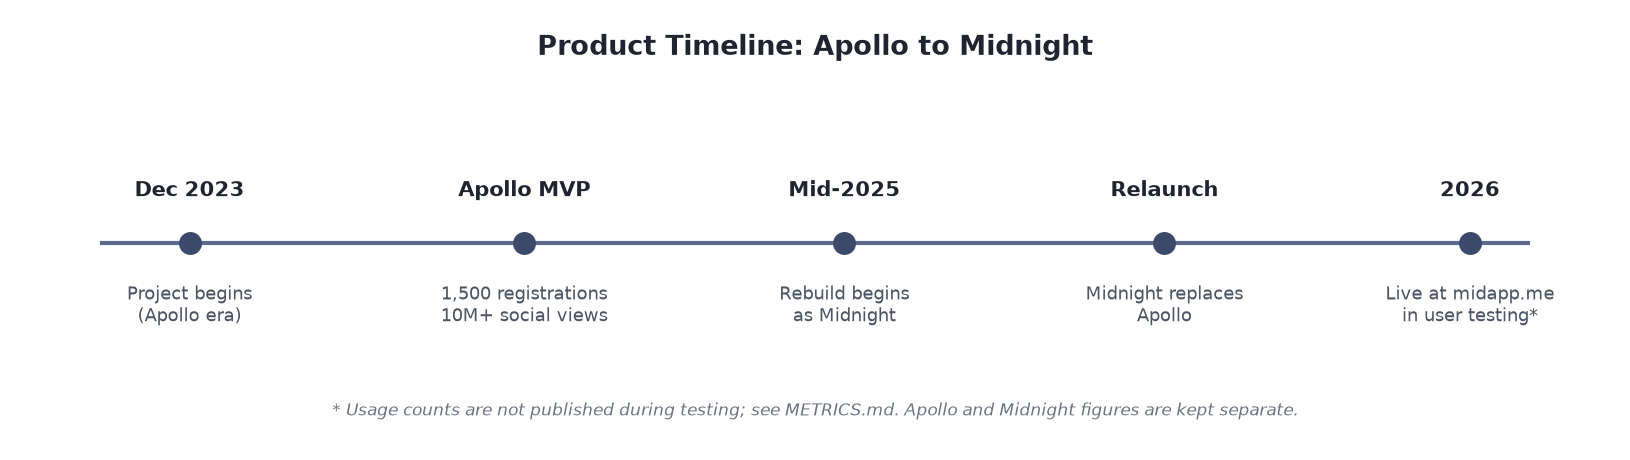
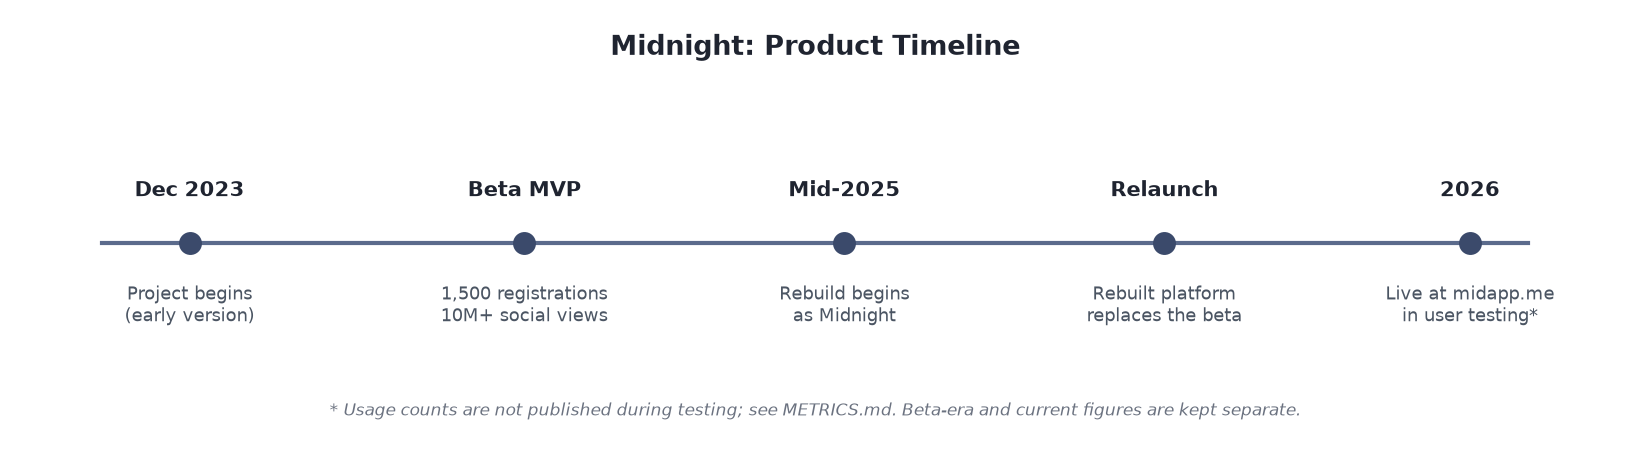
Refer to the earlier platform version as the beta throughout; regenerate timeline

diff --git a/CASE_STUDY.md b/CASE_STUDY.md
@@ -1,17 +1,17 @@
 # Midnight: Full Case Study
 
 > Documentation-only. No production source code, user data, or secrets. Product-analytics figures
-> are founder-reported and aggregated. Historical **the beta** figures and current **Midnight**
+> are founder-reported and aggregated. Beta-era figures and current-platform
 > figures are kept separate, see [METRICS.md](METRICS.md).
 
 ## 1. Executive summary
 Midnight is an AI-powered student success platform ([www.midapp.me](https://www.midapp.me)) that
 helps students turn scattered academic inputs into finished work through AI-assisted grading,
 quiz generation, flashcards, tutoring, and Canvas LMS integration. It is a rebuild and relaunch of
-an earlier product, **the beta**. Working in close coordination with a co-founder, I led product
+the platform's own earlier beta. Working in close coordination with a co-founder, I led product
 planning, user research, development priorities, testing, and marketing strategy, and served as the
 lead engineer and top code contributor (**1,684 of 3,607 commits, ~47%**, verified from the
-private repository). This case study documents the product problem, the the beta→Midnight transition,
+private repository). This case study documents the product problem, the beta-to-rebuild transition,
 my responsibilities, the technical approach, and honest results and limitations, without exposing
 proprietary code.
 
@@ -22,14 +22,14 @@ The result is friction, dead ends, and time lost to tool-management instead of l
 Midnight targets that gap with a single, student-first workspace where AI helps *create* and
 *organize* academic work, and where long-running tasks keep progressing in the background.
 
-## 3. The original the beta product
-the beta was the earlier version of this idea, an AI-assisted academic product for students. It
+## 3. The original beta
+Midnight began as an earlier beta version, an AI-assisted academic product for students. It
 validated demand and generated meaningful early traction: **1,500 registrations** and
 **more than 10 million social-media views**, built with a team of **~25 contributors** (all
 founder-reported; see [METRICS.md](METRICS.md)).
 
 ## 4. Problems discovered during the beta
-The the beta beta surfaced common early-product issues: unclear product focus, features that didn't
+The beta surfaced common early-product issues: unclear product focus, features that didn't
 map cleanly to how students actually work, and operational cost pressure from AI usage. These
 lessons directly shaped the decision to rebuild with a tighter product direction.
 
@@ -63,20 +63,20 @@ commits); the product/research/testing/marketing leadership is self-reported.
 | Product requirements / development priorities | **Led** | Self-reported |
 | Testing | **Led** | Self-reported (repo also has Playwright/Vitest suites) |
 | Marketing strategy | **Led** | Self-reported |
-| Contributor coordination | **Led / Co-led** | Coordinated ~25 contributors (the beta stage), with co-founder |
+| Contributor coordination | **Led / Co-led** | Coordinated ~25 contributors (beta stage), with co-founder |
 | AI infrastructure (multi-provider routing, background jobs) | **Contributed / Co-led** | Stack verified in repo |
 | Analytics | **Contributed** | PostHog present in stack |
 | Launch planning | **Co-led** (with co-founder) | Self-reported |
 
 > Work was done in **close coordination with a co-founder**. This case study does not claim I
 > personally built every part of the platform: Midnight is a team effort (10+ contributors in the
-> current repo; ~25 during the the beta stage). My largest independently verifiable contribution is
+> current repo; ~25 during the beta stage). My largest independently verifiable contribution is
 > engineering (top contributor, ~47% of commits).
 
 ## 8. User research and feedback
 Midnight's direction is explicitly student-first, and features map to observed student workflows:
 turning class inputs into finished work, keeping background tasks moving, and reducing the need to
-switch between tools. Feedback from the the beta stage informed which tools to keep, cut, or rebuild.
+switch between tools. Feedback from the beta stage informed which tools to keep, cut, or rebuild.
 
 ## 9. Product-development process
 - Monorepo with shared packages and a single primary web application.
@@ -100,7 +100,7 @@ across model providers and keeps latency and cost manageable. No specific cost-r
 percentage is claimed here, see [METRICS.md](METRICS.md).
 
 ## 12. Team and collaboration
-Midnight is built by a team (10+ contributors in the current repository; ~25 during the the beta
+Midnight is built by a team (10+ contributors in the current repository; ~25 during the beta
 stage). I was the top code contributor and worked in **close coordination with a co-founder** on
 product and leadership, while coordinating other engineers and contributors. Individual teammates
 are referenced by function rather than by name.
@@ -108,12 +108,12 @@ are referenced by function rather than by name.
 ## 13. Launch and growth
 Midnight is live at [www.midapp.me](https://www.midapp.me), with a staging environment used to
 validate configuration and deploys before release. The rebuilt platform is currently in **user
-testing** while the product is refined on lessons from the the beta MVP; usage counts are not
+testing** while the product is refined on lessons from the beta MVP; usage counts are not
 published at this stage (see [METRICS.md](METRICS.md)).
 
 ## 14. Metrics
 All metrics, labeled, separated by product era, and marked verified/self-reported, live in
-[METRICS.md](METRICS.md). the beta and Midnight numbers are **never combined**.
+[METRICS.md](METRICS.md). Beta-era and current numbers are **never combined**.
 
 ## 15. Mistakes and lessons learned
 - Product focus matters more than feature count; the rebuild narrowed scope to real student tasks.

diff --git a/METRICS.md b/METRICS.md
@@ -1,7 +1,7 @@
 # Metrics
 
-> **Two different products, kept separate.** the beta (earlier product) and Midnight (current
-> platform) numbers are **never combined**. Each figure is labeled with a definition, value,
+> **Two eras, kept separate.** Figures from the earlier beta and from the current
+> platform are **never combined**. Each figure is labeled with a definition, value,
 > source, and whether it is independently verified. Product-analytics figures are founder-reported
 > and aggregated, no user-level data appears here.
 
@@ -14,19 +14,19 @@
 "Founder-reported" and "self-reported" both mean the figure comes from the author (a founder of
 the product) rather than from an independently auditable source.
 
-## Historical: the beta (earlier product)
+## Historical: the earlier beta
 | Metric | Definition | Value | Source | Independently verified |
 |--------|-----------|-------|--------|------------------------|
-| Registrations | Accounts created on the the beta MVP | **1,500** | Product analytics (founder-reported) | Self-reported |
+| Registrations | Accounts created on the beta MVP | **1,500** | Product analytics (founder-reported) | Self-reported |
 | Social-media views | Video views across social channels | **10M+** | Platform analytics (founder-reported) | Self-reported |
-| Contributors | People who contributed during the the beta stage | **~25** | Founder-reported | Self-reported |
+| Contributors | People who contributed during the beta stage | **~25** | Founder-reported | Self-reported |
 
 ## Current: Midnight
 
 The rebuilt platform is in **active development and user testing**. Usage counts are deliberately
-not published at this stage: the product is being refined on lessons from the the beta MVP, and
+not published at this stage: the product is being refined on lessons from the beta MVP, and
 early-testing numbers would say more about recruiting testers than about the product. Verified
-engineering metrics (contribution share, contributor count) are above. the beta and Midnight
+engineering metrics (contribution share, contributor count) are above. Beta-era and current
 figures are never combined.
 
 ## AI cost / infrastructure

diff --git a/README.md b/README.md
@@ -2,7 +2,7 @@
 
 Midnight is an education-technology platform focused on helping students use AI-assisted
 academic tools more effectively. This repository documents the product-development process,
-selected technical decisions, and lessons from rebuilding an earlier beta product, while
+selected technical decisions, and lessons from rebuilding the platform's earlier beta, while
 keeping the production source code private.
 
 > This is a **documentation-only case study**. It contains no production source code, no user
@@ -15,7 +15,7 @@ flashcards, tutoring, and task management.
 
 ## Current status
 Live at **[www.midapp.me](https://www.midapp.me)** and in active development. The current
-platform is a refined rebuild of an earlier product, **the beta**, applying lessons from that MVP;
+platform is a refined rebuild of Midnight's earlier beta, applying lessons from that MVP;
 it is currently in user testing, so usage counts are not published yet (see
 [METRICS.md](METRICS.md)).
 
@@ -32,7 +32,7 @@ Midnight aims to reduce that friction with a single, student-first workspace whe
 create and organize academic work while background jobs keep long tasks moving.
 
 ## Key contributions
-- Led the rebuild and relaunch from the earlier the beta product to the current Midnight platform,
+- Led the rebuild and relaunch from the earlier beta to the current Midnight platform,
   applying lessons to product design, UX, team structure, and technical infrastructure.
 - Owned the product cycle end to end: planning, user research, prioritization, testing, and marketing.
 - As lead engineer, built across the codebase (AI-assisted grading, quiz/flashcard generation with
@@ -46,8 +46,8 @@ create and organize academic work while background jobs keep long tasks moving.
 - Production platform live at **www.midapp.me** with a multi-tool AI workspace.
 
 **Reported (founder-reported, not independently verified):**
-- Predecessor (the beta): 1,500 registrations, 10M+ social-media views, ~25 contributors.
-- the beta and Midnight numbers are kept **separate and precisely labeled** in
+- Earlier beta (MVP): 1,500 registrations, 10M+ social-media views, ~25 contributors.
+- Beta-era and current numbers are kept **separate and precisely labeled** in
   [METRICS.md](METRICS.md), never combined.
 
 ## Technology overview

diff --git a/PRIVACY.md b/PRIVACY.md
@@ -26,7 +26,7 @@ Any screenshots added later must:
 ## Metrics policy
 - All metrics are **aggregated**; no user-level data is published.
 - Reported-but-unverified numbers are labeled as such and kept separate by product era
-  (the beta vs Midnight). See [METRICS.md](METRICS.md).
+  (earlier beta vs current platform). See [METRICS.md](METRICS.md).
 
 ## Architecture policy
 The architecture is **intentionally generalized**. Specific implementation details have been